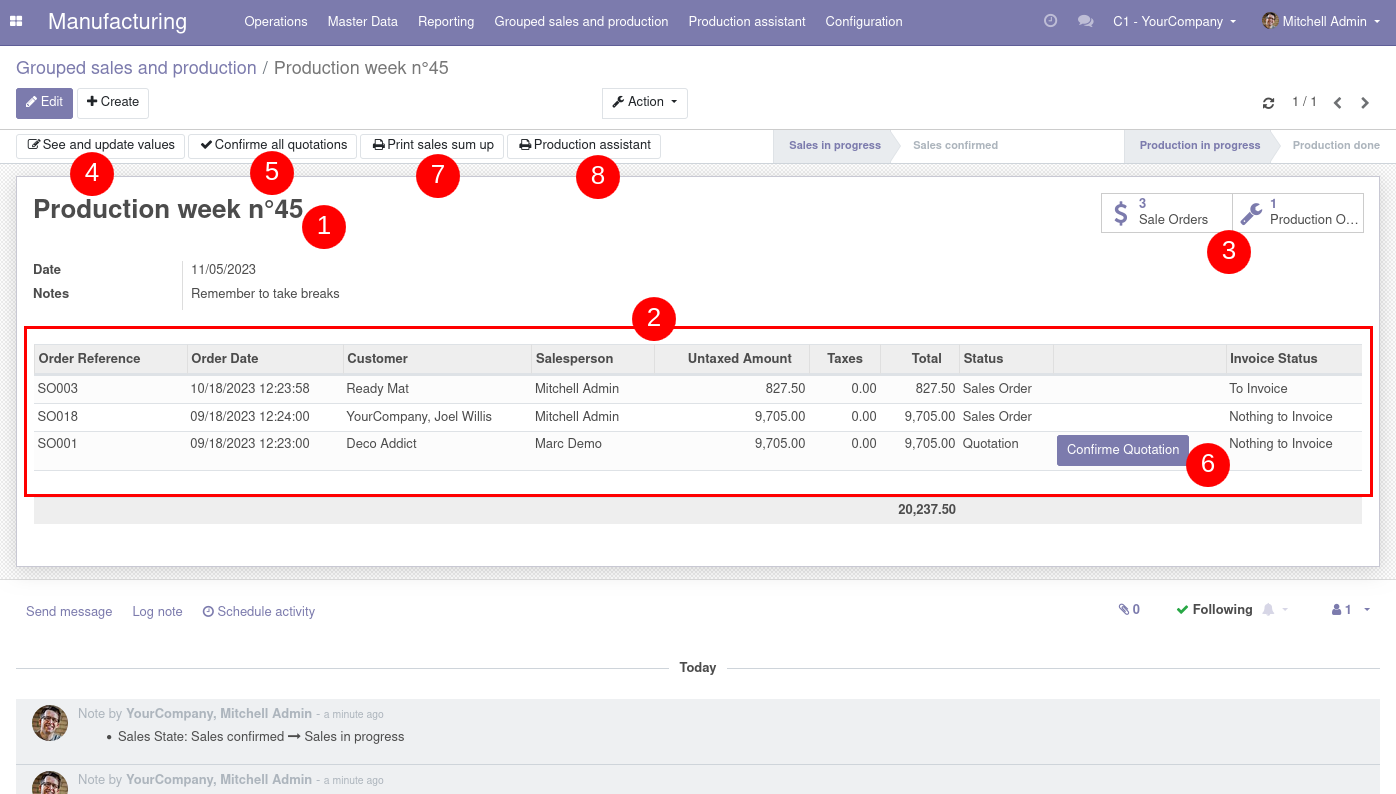
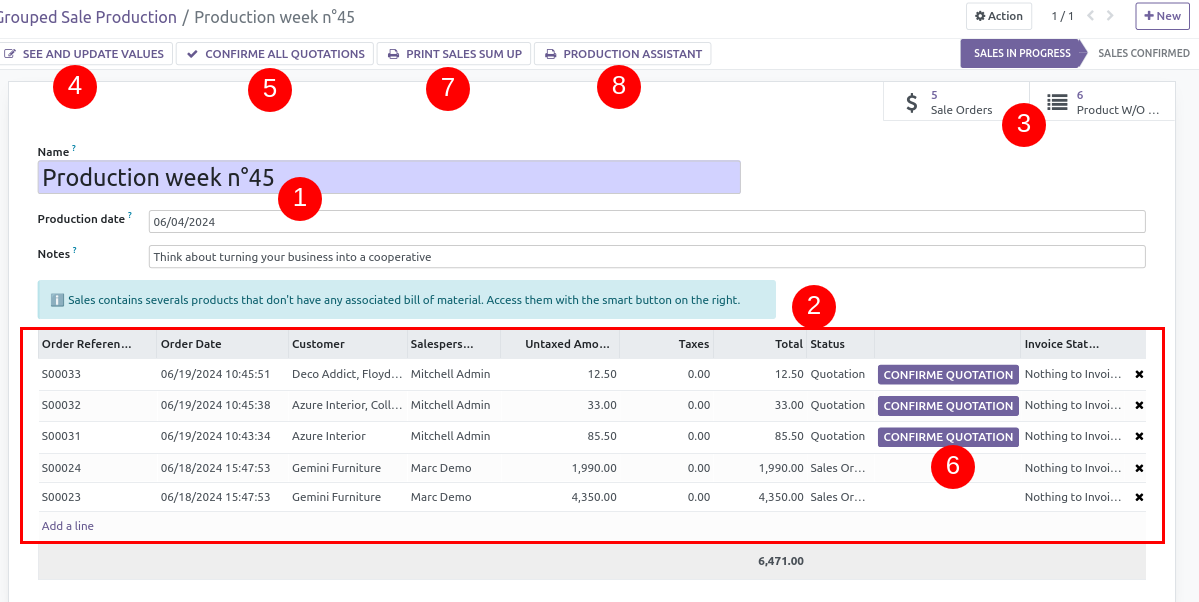
[MIG] adapt to v16 and deprecrecated mrp_sale_link

diff --git a/mrp_sale_grouped/models/mrp_sale_grouped.py b/mrp_sale_grouped/models/mrp_sale_grouped.py
@@ -37,22 +37,21 @@ class MrpSaleGrouped(models.Model):
 
     sales_state = fields.Selection(
         selection=_SALES_STATE_SELECTION,
-        string="Sales State",
         default="sales_in_progress",
-        track_visibility=True,
+        tracking=True,
         compute="_compute_sales_state",
     )
 
-    production_state = fields.Selection(
-        selection=_PROD_STATE_SELECTION,
-        string="Production State",
-        default="prod_in_progress",
-        track_visibility=True,
-        compute="_compute_production_state",
-    )
+    # production_state = fields.Selection(
+    #     selection=_PROD_STATE_SELECTION,
+    #     string="Production State",
+    #     default="prod_in_progress",
+    #     tracking=True,
+    #     compute="_compute_production_state",
+    # )
 
     orders_qty = fields.Integer(
-        "Sale Order Quantity",
+        string="Sale Order Quantity",
         compute="_compute_orders_qty",
         help="Number of Sales associated in the grouped Sale Production",
     )
@@ -64,17 +63,18 @@ class MrpSaleGrouped(models.Model):
     )
 
     # Quick access to MRP Production Orders
-    mrp_production_ids = fields.One2many(
-        comodel_name="mrp.production", compute="_compute_mrp_production_ids"
-    )
-
-    mrp_production_qty = fields.Integer(
-        compute="_compute_production_qty",
-    )
+    # mrp_production_ids = fields.One2many(
+    #     comodel_name="mrp.production", compute="_compute_mrp_production_ids"
+    # )
+    #
+    # mrp_production_qty = fields.Integer(
+    #     compute="_compute_production_qty",
+    # )
 
     # Quick access to Products withour any BoM
     product_wo_bom_ids = fields.One2many(
-        comodel_name="product.product", compute="_compute_product_wo_bom_ids"
+        comodel_name="product.product",
+        compute="_compute_product_wo_bom_ids",
     )
 
     product_wo_bom_qty = fields.Integer(
@@ -84,7 +84,7 @@ class MrpSaleGrouped(models.Model):
     # Default methods
     @api.model
     def _default_company_id(self):
-        return self.env.user.company_id.id
+        return self.env.company
 
     @api.depends("order_ids")
     def _compute_sales_state(self):
@@ -97,16 +97,17 @@ class MrpSaleGrouped(models.Model):
             else:
                 mrp_sale_grouped.sales_state = "all_sales_confirmed"
 
-    @api.depends("mrp_production_ids")
-    def _compute_production_state(self):
-        for mrp_sale_grouped in self:
-            if any(
-                prods.state not in ["done", "cancel"]
-                for prods in mrp_sale_grouped.mapped("mrp_production_ids")
-            ):
-                mrp_sale_grouped.production_state = "prod_in_progress"
-            else:
-                mrp_sale_grouped.production_state = "all_production_done"
+    #
+    # @api.depends("mrp_production_ids")
+    # def _compute_production_state(self):
+    #     for mrp_sale_grouped in self:
+    #         if any(
+    #             prods.state not in ["done", "cancel"]
+    #             for prods in mrp_sale_grouped.mapped("mrp_production_ids")
+    #         ):
+    #             mrp_sale_grouped.production_state = "prod_in_progress"
+    #         else:
+    #             mrp_sale_grouped.production_state = "all_production_done"
 
     @api.depends("order_ids")
     def _compute_orders_qty(self):
@@ -114,23 +115,25 @@ class MrpSaleGrouped(models.Model):
             mrp_sale_grouped.orders_qty = len(mrp_sale_grouped.order_ids)
 
     # MRP Production
-    @api.depends("order_ids")
-    def _compute_mrp_production_ids(self):
-        for grouped_prod in self:
-            # production_ids is a sale_mrp_link field
-            grouped_prod.mrp_production_ids = grouped_prod.order_ids.mapped(
-                "production_ids"
-            )
-
-    @api.depends("mrp_production_ids")
-    def _compute_production_qty(self):
-        for grouped_prod in self:
-            grouped_prod.mrp_production_qty = len(grouped_prod.mrp_production_ids)
+    # @api.depends("order_ids")
+    # def _compute_mrp_production_ids(self):
+    #     for grouped_prod in self:
+    #         # production_ids is a sale_mrp_link field
+    #         grouped_prod.mrp_production_ids = grouped_prod.order_ids.mapped(
+    #             "production_ids"
+    #         )
+    #
+    # @api.depends("mrp_production_ids")
+    # def _compute_production_qty(self):
+    #     for grouped_prod in self:
+    #         grouped_prod.mrp_production_qty = len(grouped_prod.mrp_production_ids)
 
     # Products without any BoM
     @api.depends("order_ids")
     def _compute_product_wo_bom_ids(self):
-        for grouped_prod in self.filtered(lambda x: x.order_ids):
+        with_sale = self.filtered(lambda x: x.order_ids)
+        (self - with_sale).product_wo_bom_ids = False
+        for grouped_prod in with_sale:
             grouped_prod.product_wo_bom_ids = grouped_prod.mapped(
                 "order_ids.order_line.product_id"
             ).filtered(lambda r: r.bom_count == 0)

diff --git a/mrp_sale_grouped/tests/test_mrp_sale_grouped.py b/mrp_sale_grouped/tests/test_mrp_sale_grouped.py
@@ -7,7 +7,7 @@ from odoo.tests.common import TransactionCase
 
 class TestMrpSaleGrouped(TransactionCase):
     def setUp(self):
-        super(TestMrpSaleGrouped, self).setUp()
+        super().setUp()
         # Objects
         self.mrp_sale_grouped_obj = self.env["mrp.sale.grouped"]
         self.wizard_obj = self.env["sale.grouped.wizard"]
@@ -19,9 +19,7 @@ class TestMrpSaleGrouped(TransactionCase):
             "mrp_sale_grouped.demo_sale_deco_addict"
         )
         self.bom_pie = self.env.ref("mrp_sale_grouped.demo_bom_tomato_tart")
-        self.product_tmpl_pie = self.env.ref(
-            "mrp_sale_grouped.demo_product_template_tomato_tart"
-        )
+
         # Create one sale_grouped with sales
         self.mrp_sale_grouped_1 = self.mrp_sale_grouped_obj.create(
             {"name": "TEST Grouped Sale"}
@@ -47,10 +45,10 @@ class TestMrpSaleGrouped(TransactionCase):
         self.mrp_sale_grouped_1._compute_sales_state()
         self.assertEqual(self.mrp_sale_grouped_1.sales_state, "all_sales_confirmed")
 
-    def test_03_check_mrp_grouped_production_state(self):
-        self.assertEqual(
-            self.mrp_sale_grouped_1.production_state, "all_production_done"
-        )
+    # def test_03_check_mrp_grouped_production_state(self):
+    #     self.assertEqual(
+    #         self.mrp_sale_grouped_1.production_state, "all_production_done"
+    #     )
 
     def test_04_sale_grouped_report(self):
         # Launch wizard and report action

diff --git a/mrp_sale_grouped/wizard/bom_print_purchase_list_wizard.py b/mrp_sale_grouped/wizard/bom_print_purchase_list_wizard.py
@@ -31,6 +31,7 @@ class BomPrintPurchaseListWizard(models.TransientModel):
             self.with_context(context, no_origin=no_origin),
         )._default_no_origin()
 
+    # Set PDF Title with sale_grouped Title
     @api.model
     def _default_title_for_pdf(self):
         context = self.env.context
@@ -46,6 +47,7 @@ class BomPrintPurchaseListWizard(models.TransientModel):
             self.with_context(context, title_for_pdf=title_for_pdf),
         )._default_title_for_pdf()
 
+    # Set PDF notes with sale_grouped Notes
     @api.model
     def _default_notes(self):
         context = self.env.context
@@ -61,6 +63,7 @@ class BomPrintPurchaseListWizard(models.TransientModel):
             self.with_context(context, notes_for_pdf=notes_for_pdf),
         )._default_notes()
 
+    # Set PDF production date with sale_grouped production date
     @api.model
     def _default_production_date(self):
         context = self.env.context
@@ -91,6 +94,7 @@ class BomPrintPurchaseListWizard(models.TransientModel):
 
         return missing_boms_text
 
+    # Override method to add "Origin" field that precise Sales linked to BoM
     @api.model
     def _default_line_ids(self):
         context = self.env.context

diff --git a/mrp_sale_grouped/readme/DESCRIPTION.rst b/mrp_sale_grouped/readme/DESCRIPTION.rst
@@ -12,6 +12,6 @@ Quickly manage what you need to produce thanks to grouped sales
 you have to buy, intermediate and finished products you have to produce.
 
 .. figure:: ../static/description/report_sales_sum_up.png
-
+.. figure:: ../static/description/mrp_sale_grouped_sales_matrix2d.png
 .. figure:: ../static/description/production_wizard.png
 .. figure:: ../static/description/production_wizard_report.png

diff --git a/mrp_sale_grouped/readme/ROADMAP.rst b/mrp_sale_grouped/readme/ROADMAP.rst
@@ -1,0 +1,1 @@
+- Add to comment all fields related to module sale_mrp_link that has been deprecated and replace by mrp_sale_info
